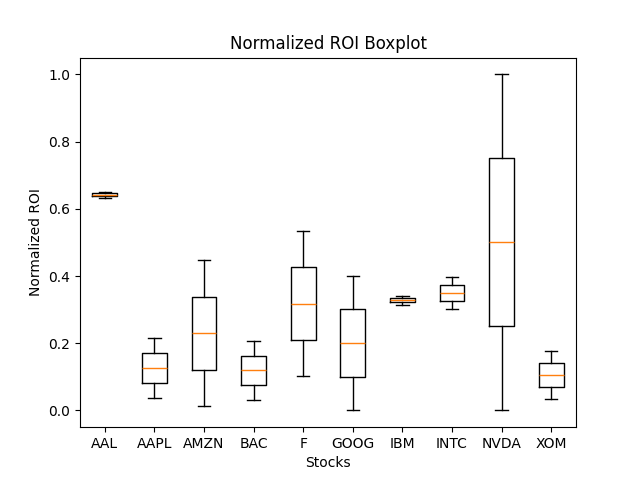
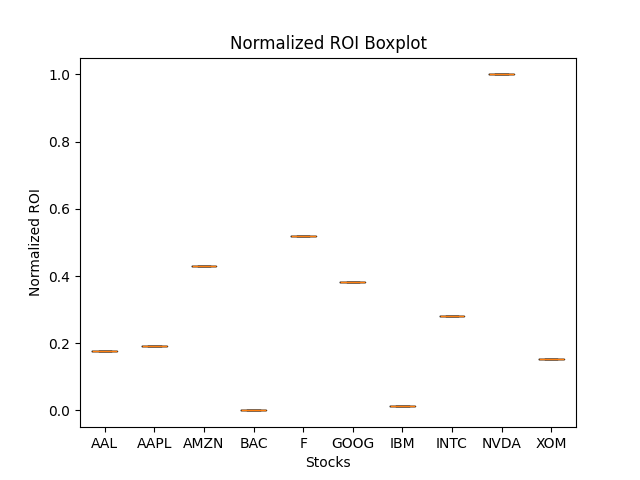
testing preparation

diff --git a/Proj2/ROImaximizationtesting.py b/Proj2/ROImaximizationtesting.py
@@ -57,12 +57,17 @@ XOM['Date'] = pd.to_datetime(XOM['Date'], format='%d/%m/%Y')
 csvs = [AAL, AAPL, AMZN, BAC, F, GOOG, IBM, INTC, NVDA, XOM]
 csvs_names = ['AAL', 'AAPL', 'AMZN', 'BAC', 'F', 'GOOG', 'IBM', 'INTC', 'NVDA', 'XOM']
 
-GENERATIONS = 156
-INITIAL_POPULATION = 64
-N_RUNS = 2
+GENERATIONS = 1
+INITIAL_POPULATION = 4
+N_RUNS = 1
 INFINITY = np.inf
 GAP_ANALYZED = 50
 PERF_THRESHOLD = 1
+
+CXPB, MUTPB = 0.5, 0.5
+indpbMut = 0.5
+CrossType = 'OnePoint'
+SelType = 'Torn2'
  
 creator.create("FitnessMax", base.Fitness, weights=(1.0,))
 creator.create("Individual", list, fitness=creator.FitnessMax)
@@ -227,7 +232,7 @@ def mutCustom(individual, indpb):
 
     return new_individual   
 
-toolbox.register('mutate', mutCustom, indpb = 0.5) 
+toolbox.register('mutate', mutCustom, indpb = indpbMut) 
 
 # not tested
 # toolbox.register("mutate", tools.mutPolynomialBounded, indpb=0.05)
@@ -243,6 +248,7 @@ toolbox.register("select", tools.selTournament, tournsize=2)
 
 #----------
 
+
 def oa_csv(csv_name, start_date_training, end_date_training):
     # create an initial population of 300 individuals (where
     # each individual is a list of integers)
@@ -252,7 +258,6 @@ def oa_csv(csv_name, start_date_training, end_date_training):
     #       are crossed
     #
     # MUTPB is the probability for mutating an individual
-    CXPB, MUTPB = 0.5, 0.5
     
     print("Start of evolution")
     
@@ -459,7 +464,9 @@ def generate_boxplots(fitness_csvs):
 def main3_2(start_date_training, end_date_training):
     
     result = pd.DataFrame()
-    result['Stocks'] = csvs_names
+    csvs_names_to_df = csvs_names.copy()
+    csvs_names_to_df.append(None)
+    result['Stocks'] = csvs_names_to_df
     
     max_final = []
     min_final = []
@@ -493,11 +500,18 @@ def main3_2(start_date_training, end_date_training):
         std_final.append(np.std(fitness_final))
         fitness_csvs.append(fitness_final)        
     
+    max_final.append(np.mean(max_final))
+    min_final.append(None)
+    avg_final.append(None)
+    std_final.append(None)
+    
     result['Max'] = max_final 
     result['Min'] = min_final
     result['Mean'] = avg_final 
     result['STD'] = std_final 
-    result.to_csv('ACI_Project2_2324_Data/' + 'results' + '.csv', index = None, header=True, encoding='utf-8')
+    
+    nameee = '_PMut' + str(MUTPB) + '_indpb' + str(indpbMut) + '_Cross' + CrossType + '_PCross' + str(CXPB) + '_Sel' + SelType
+    result.to_csv('ACI_Project2_2324_Data/' + 'results' + nameee + '.csv', index = None, header=True, encoding='utf-8')
     
     generate_histograms(best_individuals_csvs)
     generate_boxplots(fitness_csvs)

diff --git a/Proj2/ROImaximization_testing-old.py b/Proj2/ROImaximization_testing-old.py
@@ -63,7 +63,7 @@ N_RUNS = 1
 INFINITY = np.inf
 GAP_ANALYZED = 50
 PERF_THRESHOLD = 1
-MUTPB, CXPB  = 0.8, 0.8
+MUTPB, CXPB  = 0.1, 0.7
  
 creator.create("FitnessMax", base.Fitness, weights=(1.0,))
 creator.create("Individual", list, fitness=creator.FitnessMax)
